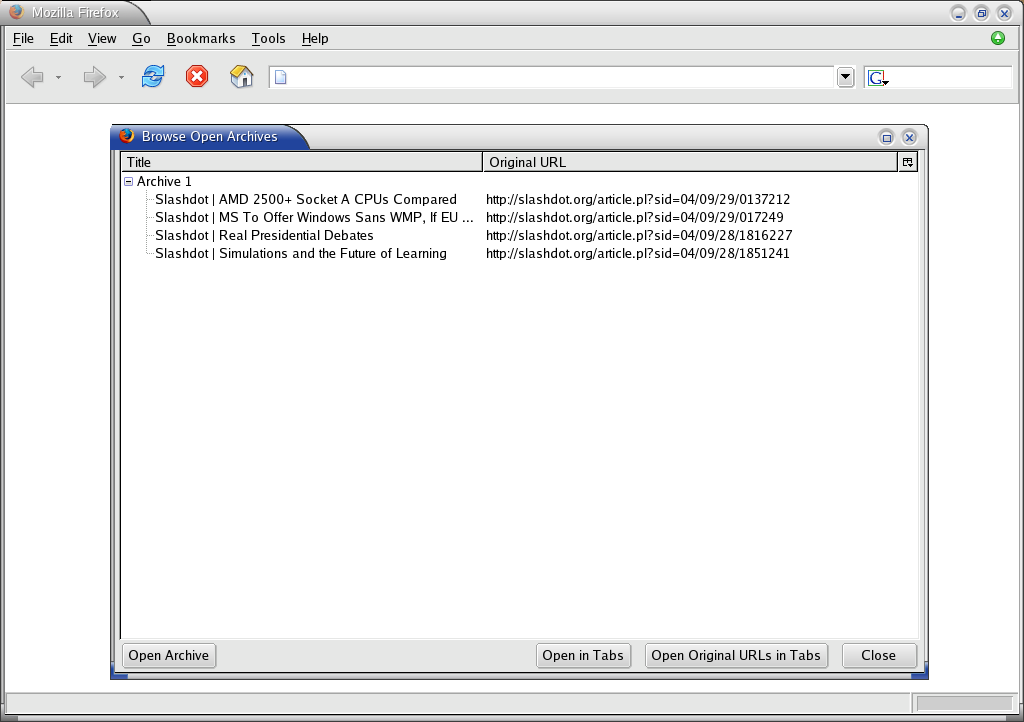
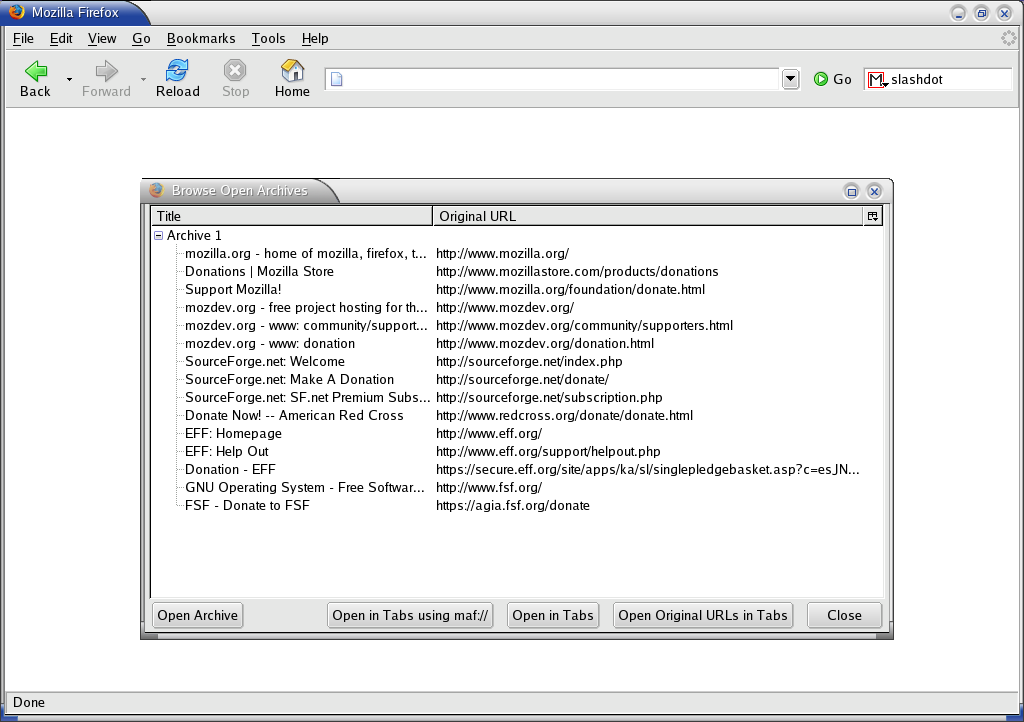
Website update for MAF 0.5.0 release.

Changed region(s): [[0.0, 0.0609, 1.0, 1.0], [0.0, 0.0, 0.1562, 0.0609], [0.9688, 0.0305, 1.0, 0.0609]]

diff --git a/www/preferences.html b/www/preferences.html
@@ -3,9 +3,9 @@
 
 <p>The preferences are available from the <i>Tools</i> menu and the <i>Mozilla Archive Format</i> submenu.</p>
 
-<p>The additional available preferences for Windows are disabled on other platforms. The only preference like this thus far is the ability to execute a VBS script to hide the dos box that appears during batch file execution.</p>
+<p>The additional available preferences for Windows are disabled on other platforms.</p>
 
-<p>Below are screen shots of the preferences dialog on Linux. The new default temporary directory is in the user's profile. If you have installed a version of MAF older than 0.3.0 click the "Load defaults" button to set the preferences to the new defaults that use the new scripts. The variable %PROFILEDIR% refers to the folder that contains your browser's settings, such as history, cache, bookmarks etc. Remember to save after loading or the preferences will not be set. In Linux ensure that the temporary directory to use is set to <b>%PROFILEDIR%/maf/maftemp/</b> to use the latest scripts or whatever temporary directory your script uses if you have changed or added scripts as seen in the figure below.</p>
+<p>Below are screen shots of the preferences dialog on Linux. The default temporary directory is in the user's profile. If you have installed a version of MAF older than 0.3.0 click the "Load defaults" button to set the preferences to the new defaults that use the new scripts. The variable %PROFILEDIR% refers to the folder that contains your browser's settings, such as history, cache, bookmarks etc. Remember to save after loading or the preferences will not be set. In Linux ensure that the temporary directory to use is set to <b>%PROFILEDIR%/maf/maftemp/</b> to use the latest scripts or whatever temporary directory your script uses if you have changed or added scripts as seen in the figure below.</p>
 
 <img src="images/linuxprefs1.png" alt="Linux preferences dialog - Tab 1" />
 
@@ -23,7 +23,7 @@
 
 <br/>
 
-<p>If you are a windows user and wish to use the VBS option <i>ENSURE</i> that the script archive and expansion processes are working first. After that is confirmed (by saving to an archive and opening it back) you can safely enable the VBS option. Browse to the location of wscript.exe (usually in the %WINDIR%\system32 directory). You also must correctly set the location of invis.vbs which should be at <b>%PROFILEDIR%\maf\invis.vbs</b>.</p>
+<p>If you are a windows user and wish to use the VBS option <i>ENSURE</i> that the script archive and expansion processes are working first. After that is confirmed (by saving to an archive and opening it back) you can safely enable the VBS option. Browse to the location of wscript.exe (usually in the %WINDIR%\system32 directory). You also must correctly set the location of invis.vbs which should be at <b>%PROFILEDIR%\maf\invis.vbs</b>. If you would like MAF to register file type associations, you can configure .mht and .maff files to open in Firefox.</p>
 
 <p><b>Preferences: Clear Temporary folder when browser exits.</b>
 <br/><br/>
@@ -40,20 +40,40 @@ There are three open modes available. These configure how MAF behaves once an ar
 </ol>
 </p>
 
-<p><b>Preferences: Rewrite Archive Document URLs</b>
-<br/><br/>
-This feature is available from MAF version 0.2.20 and higher. With this preference enabled, the DOM tree of expanded archive HTML files would be processed as they finish loading in tabs. The processing would iterate over all the links in the page and replace absolute links to resources in the page with local resources in the archive (if possible). This would allow users to browse linked pages in an archive seamlessly.
-</p>
+<p>Additional preferences have been moved to the Advanced tab.</p>
+
+<img src="images/linuxprefs4.png" alt="Linux preferences dialog - Tab 4" />
 
 <p><b>Preferences: Save Extended Meta-Data</b>
 <br/><br/>
 This feature is has been made available from MAF version 0.2.20 and higher. With this preference enabled, additional page information such as history, text zoom and scroll position is saved for each page. There is currently no preference to restore this saved information as yet.
 </p>
 
+<p><b>Preferences: Use alternative save component</b>
+<br/><br/>
+This feature is has been made available from MAF version 0.5.0 and higher. With this preference enabled, a different component is used by MAF to serialize HTML pages to disk. This component saves images linked in CSS pages but it currently does <b>NOT</b> work on framed pages.
+</p>
+
+<p><b>Preferences: Alert on single archive complete</b>
+<br/><br/>
+This feature is has been made available from MAF version 0.4.3 and higher. With this preference enabled, an alert box is displayed each time a single page is saved in an archive. This is not applicable if multiple tabs are being saved in an archive at once.
+</p>
+
+<p><b>Preferences: Rewrite Archive Document URLs</b>
+<br/><br/>
+This feature is available from MAF version 0.2.20 and higher. With this preference enabled, the DOM tree of expanded archive HTML files would be processed as they finish loading in tabs. The processing would iterate over all the links in the page and replace absolute links to resources in the page with local resources in the archive (if possible). This would allow users to browse linked pages in an archive seamlessly.
+</p>
+
 <p><b>Preferences: Enable MAF Protocol</b>
 <br/><br/>
 This feature is has been made available from MAF version 0.4.0 and higher. With this preference enabled, users may access resources within maf archives with the maf:// protocol specification. The format of the MAF protocol is maf:// followed by a URI of a MAF file, followed by an exclamation mark, followed by the resource. As an example maf://file:///home/cottley/mafs/parse.html.maff!1092306423080_665/index.html indicates that the parse.html.maff file's resource 1092306423080_665/index.html is to be displayed. If the archive is not opened before this protocol is specified, it is opened silently in the background. Currently this protocol only works with file URIs.
 </p>
+
+<p><b>Preferences: Enable document.write override</b>
+<br/><br/>
+This feature is has been made available from MAF version 0.4.1 and higher. With this preference enabled, javascript document.write calls have no effect. This is useful to avoid seeing duplicated content that is dynamically written when opening an archive. As of MAF version 0.5.0 this option also disables document.writeln.
+</p>
+
 
 <!-- Start of StatCounter Code -->
 <script type="text/javascript">

diff --git a/www/installation.html b/www/installation.html
@@ -3,7 +3,7 @@
 
 <p>Below you will find links to the latest XPI installer package. The installer packages have been merged so there is one XPI for both Linux and Windows installations. If you have previously installed MAF in Mozilla, please uninstall MAF and then install the latest package.</p>
 
-<p>Latest XPI - <a href="http://downloads.mozdev.org/maf/maf-0.4.3.xpi">0.4.3 for Linux and Windows</a></p>
+<p>Latest XPI - <a href="http://downloads.mozdev.org/maf/maf-0.5.0.xpi">0.5.0 for Linux and Windows</a></p>
 
 <p>Please note, if you have previously installed MAF and are installing the 0.3.0 version or higher, the location of scripts and some settings have changed. In order to use the new scripts, go to the <a href="preferences.html">preferences</a>, click on the "Load defaults" button and save the new preferences.</p>
 
@@ -11,11 +11,46 @@
 
 <p>After MAF has been setup, complete the configuration by checking the <a href="preferences.html">preferences</a>.</p>
 
-<p>Previous XPI - <a href="http://downloads.mozdev.org/maf/maf-0.4.2.xpi">0.4.2 for Linux and Windows</a></p>
+<p>Also released is <a href="http://downloads.mozdev.org/maf/penmaf-0.5.0b1.xpi">PenMAF 0.5.0 Beta 1</a> for Linux and Windows. This package resets MAF's post-install state so that scripts still work when MAF is installed on a Browser running on a pen drive. Currently it only works for MAF 0.5.0 and Firefox 1.0.</p>
+
+<p>Previous XPI - <a href="http://downloads.mozdev.org/maf/maf-0.4.3.xpi">0.4.3 for Linux and Windows</a></p>
 
 
 <h5 class="page-header"><a id="changelog" name="changelog">Changes</a></h5>
 <pre>
+ *
+ * Changes from 0.4.3 to 0.5.0
+ *
+ * Disabling document write also disables document.writeln.
+ * Changed the default wscript directory preference from winnt to windows.
+ * Fixed bug that ignored content location when selecting root nodes for MHT decoding.
+ * Updated Italian locale contributed by Gioxx Solone: eXtenZilla.it.
+ * When MHT decoding, the index content type will now be assumed to be html, not bin by default.
+ * Moved the save page in archive entries to the Mozilla Archive Format menu.
+ * Integrated Save page as MAFF archive into default save dialog for Firefox 1.0 and Mozilla 1.7.3.
+ * Fixed bug that ignored processing parts of MHT framed pages if their content type wasn't text/html.
+ * Removed preference for windows .maf association to avoid any potential problems with MS Access.
+ * Added code to remove 3 byte utf start characters from MHT parts so Mozilla decodes properly.
+ * Modified vbs hide functionality to revert to using command window if wscript or the invis.vbs is not found.
+ * Added preference to use alternative DOM save component.
+ * Preference for using wscript and invis.vbs is now true by default.
+ * Added alternative DOM save component based on the Scrapbook extension by Gomita.
+ * Added script failure notification code from process exit value.
+ * Modified invis.vbs to return process exit value contributed by Allister.
+ * Added advanced panel in preferences window.
+ * Fixed bug in MAF protocol handler that broke silent opening of MAF archives.
+ * Fixed bug in MafState.isArchiveURL(originalURL) that didn't return true for framed archive documents.
+ * Added unicode to native locale conversion function for program arguments.
+ * Added decoder optimization for MHT MAF files.
+ * Added native quoted-printable encoder and decoder support.
+ * Added Portuguese locale by Jacinto Leal.
+ * Added update.rdf related entries for extension manager updates.
+ * Added network url functionality for .maff files.
+ * Added preferences entries that have the major, minor and minor minor version of MAF installed.
+ * Fixed bug 8897 - Title in browse archive dialog now displays unicode characters.
+ * Added additional properties entries for localization of some error messages.
+ * Fixed unicode document title conversion bug in getDefaultFileName - Died if title was already unicode.
+ *
  *
  * Changes from 0.4.2 to 0.4.3
  *

diff --git a/www/docs.html b/www/docs.html
@@ -12,9 +12,9 @@
 <a name="removingmaf" />
 <h2>Removing MAF</h2>
 
-<p>For version 0.3.0 or 0.4.0 with Firefox 0.9 or higher, use the built in uninstall from the extension manager. Since MAF scripts and temporary folders are in the profile folder, remove the maf folder and any sub-folders or files that are present.</p>
+<p>For version 0.3.0, 0.4.0 or 0.5.0 with Firefox 0.9 or higher, use the built in uninstall from the extension manager. Since MAF scripts and temporary folders are in the profile folder, remove the maf folder and any sub-folders or files that are present.</p>
 
-<p>For version 0.4.0 with Mozilla 1.7+, go to the profile folder and under the chrome directory remove maf.jar. Edit the chrome.rdf and remove all the RDF descriptions that contain MAF. There should also be an overlayinfo folder. In the browser/content/overlays.rdf file remove the RDF list item entry with MAF. If it is the only entry, you may remove the entire file. In the navigator/content/overlays.rdf perform the same action. Since MAF scripts and temporary folders are in the profile folder, remove the maf folder and any sub-folders or files that are present. In the components folder of the Mozilla installation, delete the following files: maf.0.4.0.xpt, nsMafArchiver.js, nsMafDocumentViewerFactory.js, nsMafGuiHandler.js, nsMafMhtDecoder.js, nsMafMhtEncoder.js, nsMafMhtHandler.js, nsMafPreferences.js, nsMafPreferencesRec.js, nsMafProtocol.js, nsMafState.js, nsMafStringValue.js, nsMafTabArchiver.js, nsMafTabExpander.js, nsMafUtil.js. In 0.4.1/0.4.2 there are three changes: maf.0.4.1.xpt instead of maf.0.4.0.xpt and there are two additional files: nsMafArchivePostProcessor.js and nsMafBlockingObserverService.js.</p>
+<p>For version 0.4.0 with Mozilla 1.7+, go to the profile folder and under the chrome directory remove maf.jar. Edit the chrome.rdf and remove all the RDF descriptions that contain MAF. There should also be an overlayinfo folder. In the browser/content/overlays.rdf file remove the RDF list item entry with MAF. If it is the only entry, you may remove the entire file. In the navigator/content/overlays.rdf perform the same action. Since MAF scripts and temporary folders are in the profile folder, remove the maf folder and any sub-folders or files that are present. In the components folder of the Mozilla installation, delete the following files: maf.0.4.0.xpt, nsMafArchiver.js, nsMafDocumentViewerFactory.js, nsMafGuiHandler.js, nsMafMhtDecoder.js, nsMafMhtEncoder.js, nsMafMhtHandler.js, nsMafPreferences.js, nsMafPreferencesRec.js, nsMafProtocol.js, nsMafState.js, nsMafStringValue.js, nsMafTabArchiver.js, nsMafTabExpander.js, nsMafUtil.js. In 0.4.1/0.4.2 there are three changes: maf.0.4.1.xpt instead of maf.0.4.0.xpt and there are two additional files: nsMafArchivePostProcessor.js and nsMafBlockingObserverService.js. In 0.5.0 remove maf.0.5.0.xpt.</p>
 
 <p>For version 0.3.0 with Mozilla 1.7+ or Firefox 0.8, go to the profile folder and under the chrome directory remove maf.jar. Edit the chrome.rdf and remove all the RDF descriptions that contain MAF. There should also be an overlayinfo folder. In the browser/content/overlays.rdf file remove the RDF list item entry with MAF. If it is the only entry, you may remove the entire file. In the navigator/content/overlays.rdf perform the same action. Since MAF scripts and temporary folders are in the profile folder, remove the maf folder and any sub-folders or files that are present.</p>
 

diff --git a/www/index.html b/www/index.html
@@ -4,7 +4,8 @@
 <div class="infoTab" id="whats-new">
 <h5 class="infoHeader">What's New</h5>
 <ul>
-<li>MAF 0.4.3 released.</li>
+<li>MAF 0.5.0 released.</li>
+<li>PenMAF 0.5.0b1 released.</li>
 </ul>
 </div>
 
@@ -17,7 +18,7 @@
 <li>URLs in archive documents can be replaced if there's a local version in an open archive</li>
 <li>MHTML read and write support implemented</li>
 <li>Store more than one saved page in an archive</li>
-<li>Localized in French, Italian, Polish and Russian</li>
+<li>Localized in French, Italian, Polish, Portuguese and Russian</li>
 <li>maf:// protocol capability</li>
 </ul>
 </div>
@@ -76,8 +77,8 @@ If you use MAF and like it, please consider a <a href="donate.html">donation</a>
 
 <p><b>Tested on:</b>
   <ul>
-   <li>FireFox 1.0PR, Mozilla 1.7.3, Linux i686.</li>
-   <li>FireFox 1.0PR, Mozilla 1.7.3, Windows 2000.</li>
+   <li>FireFox 1.0, Mozilla 1.7.3, Linux i686.</li>
+   <li>FireFox 1.0, Mozilla 1.7.3, Windows 2000.</li>
   </ul>
 </p>
 

diff --git a/www/screenshots.html b/www/screenshots.html
@@ -12,7 +12,7 @@
   </td>
   <td>
 
-Browsing an open archive. Archive 1, some pages from slashdot.org.
+Browsing an open archive. Archive 1, some free software related donation pages.
 
   </td>
 </tr>
@@ -40,7 +40,7 @@ MAF allows the user to save all the open tabs in an archive. This screenshot sho
 </tr>
 <tr>
   <td>
-Shows the additions to the file menu allowing the user to open an archive, save the current page in an archive and save all the open tabs in an archive.
+Shows the addition to the context menu allowing the user to save the current page in an archive.
   </td>
   <td>
 <a href="images/shot4.png"><img src="images/small-shot4.png" border="0"/></a>
